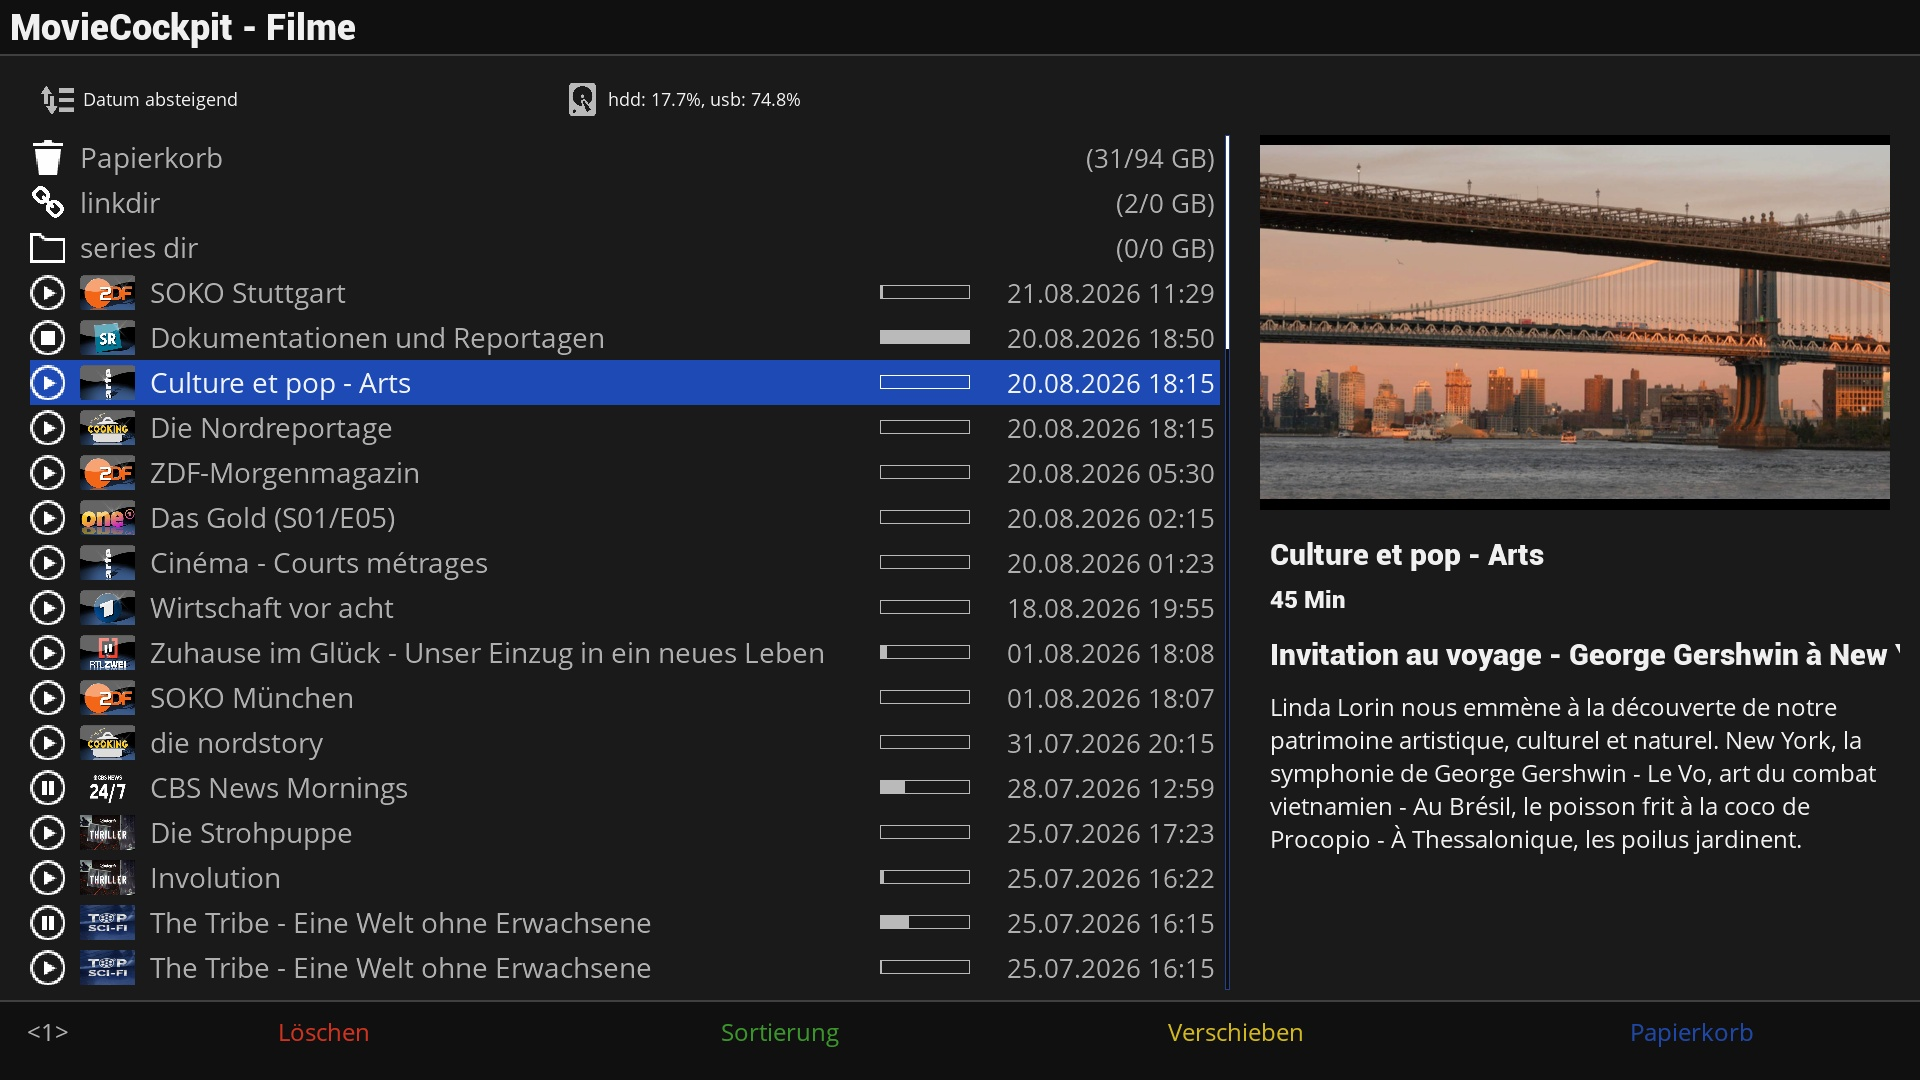
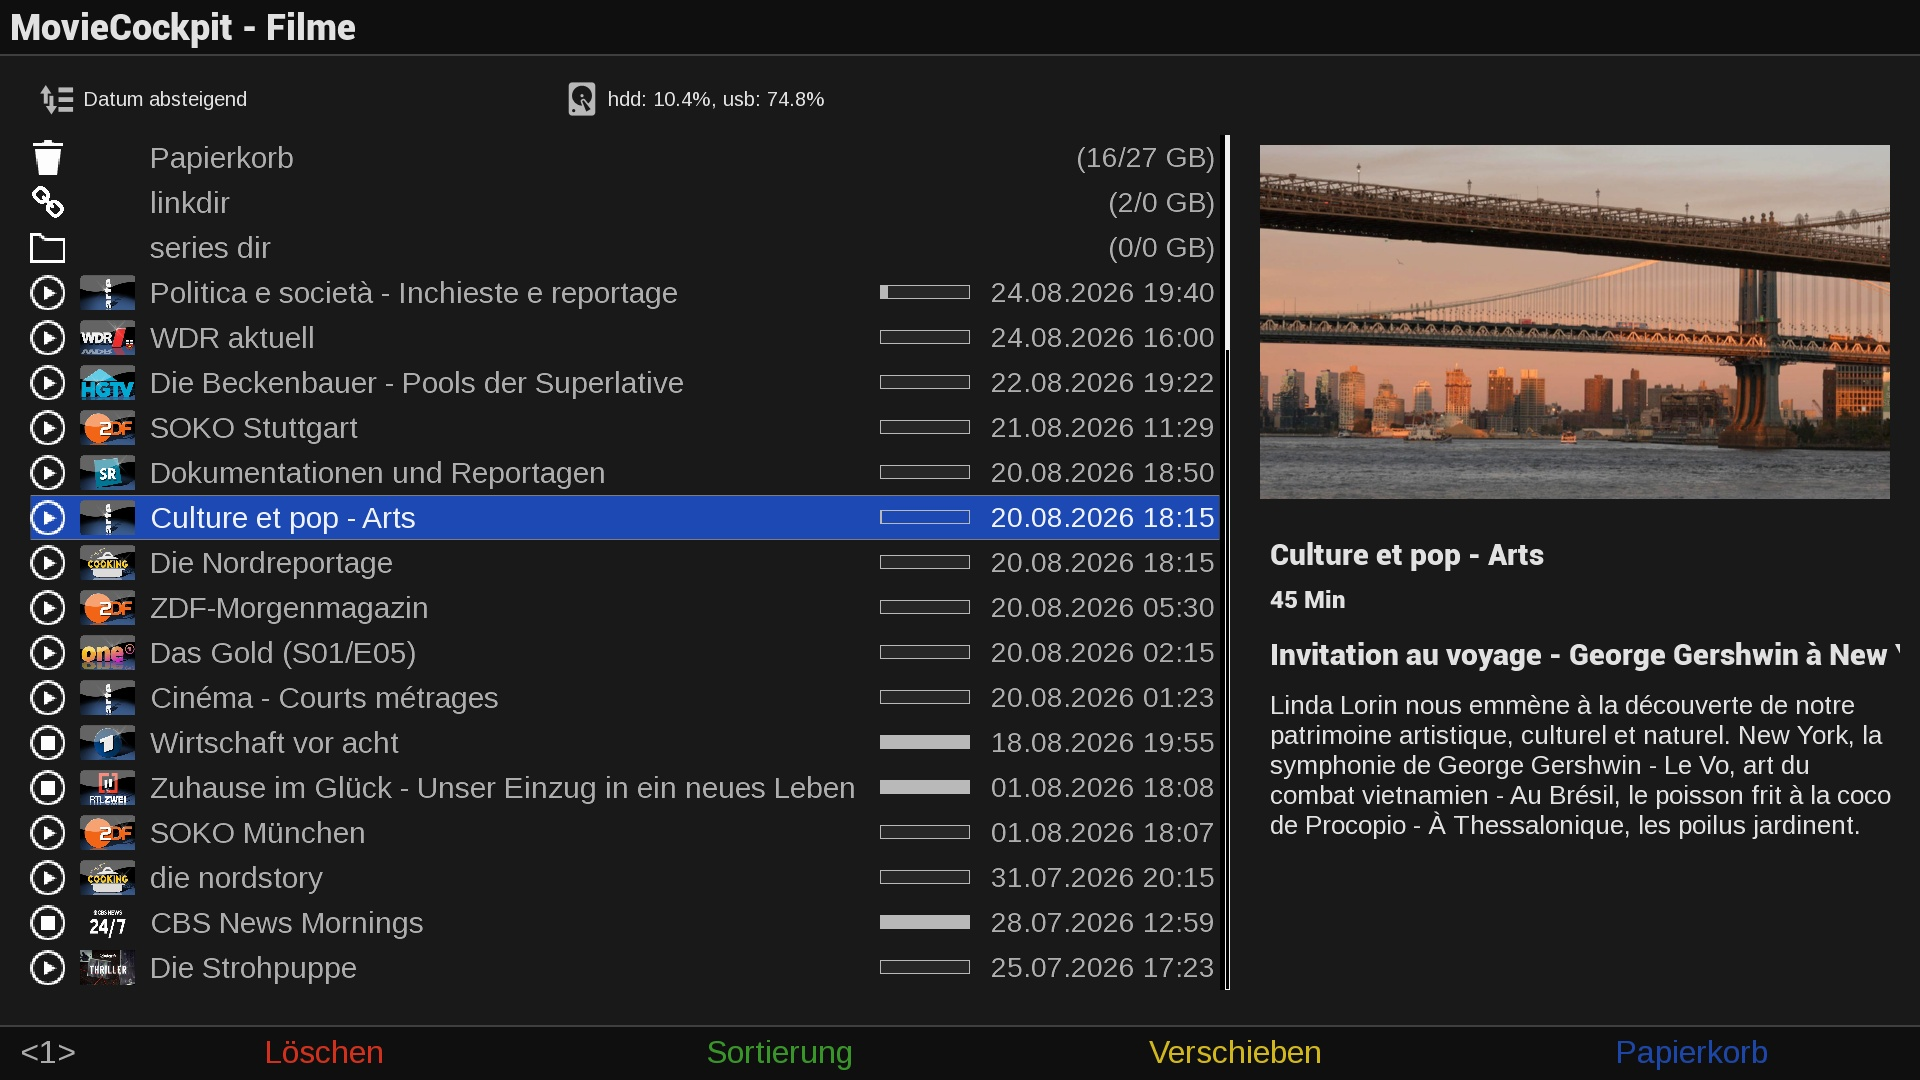
0.8.0

diff --git a/src/MovieList.py b/src/MovieList.py
@@ -7,14 +7,11 @@ import pickle
 from time import time
 from datetime import datetime
 from Components.config import config
-from Components.GUIComponent import GUIComponent
-from Components.MultiContent import MultiContentEntryText, MultiContentEntryPixmapAlphaBlend, MultiContentEntryProgress
+from Components.Sources.List import List
 from Tools.LoadPixmap import LoadPixmap
-from enigma import eListbox, eListboxPythonMultiContent
-from enigma import RT_HALIGN_LEFT, RT_HALIGN_RIGHT, RT_VALIGN_CENTER
 from Plugins.SystemPlugins.MountCockpit.MountCockpit import MountCockpit
 from Plugins.SystemPlugins.CacheCockpit.FileManager import FileManager
-from skin import parseColor, parseFont, parseSize
+from skin import parseColor
 from .Debug import logger
 from .Version import ID
 from .__init__ import _
@@ -31,14 +28,26 @@ from .RecordingUtils import isRecording, isDownloadRecording
 from .JobUtils import getPendingJob
 
 
-class MovieList(GUIComponent, Sorting, ServiceCenter):
+# Extended fields appended after the raw FILE_IDX_* tuple (0-19) for the "list" Source
+# consumed by the skin's TemplatedMultiContentEx convert block. Indices are duplicated
+# as literals in skin/default/skin.xml (a skin <convert> eval has no access to these
+# module constants) - keep both in sync when changing this layout.
+ROW_IDX_NAME = 20
+ROW_IDX_DATE_TEXT = 21
+ROW_IDX_PROGRESS = 22
+ROW_IDX_FILE_ICON = 23
+ROW_IDX_PICON = 24
+ROW_IDX_COLOR = 25
+ROW_IDX_COLOR_SEL = 26
+
+
+class MovieList(List, Sorting, ServiceCenter):
 
     COMPONENT_ID = ""
-    GUI_WIDGET = eListbox
 
     def __init__(self):
         logger.debug("...")
-        GUIComponent.__init__(self)
+        List.__init__(self, list=[], enableWrapAround=True)
         Sorting.__init__(self)
         ServiceCenter.__init__(self, self)
         self.file_list = []
@@ -46,11 +55,6 @@ class MovieList(GUIComponent, Sorting, ServiceCenter):
         self.lock_list = {}
         self.file_list_index = {}
         self.load_dir = ""
-        self.skinAttributes = None
-
-        # Initialize the list
-        self.l = eListboxPythonMultiContent()  # noqa: E741
-        self.l.setBuildFunc(self.buildMovieListEntry)
 
         self.show_dirs = False
         self.insert_dirs = False
@@ -91,16 +95,6 @@ class MovieList(GUIComponent, Sorting, ServiceCenter):
         self.pic_movie_deleted = LoadPixmap(getSkinPath(
             "images/deleted.svg"), cached=True)
 
-        self.onSelectionChanged = []
-
-    def postWidgetCreate(self, instance):
-        instance.setWrapAround(True)
-        instance.setContent(self.l)
-        instance.selectionChanged.get().append(self.selectionChanged)
-
-    def preWidgetRemove(self, instance):
-        instance.setContent(None)
-
     def setListContent(self):
         config.plugins.moviecockpit.list_content.value = self.list_content
         config.plugins.moviecockpit.list_content.save()
@@ -134,35 +128,38 @@ class MovieList(GUIComponent, Sorting, ServiceCenter):
         self.setListContent()
         self.loadList()
 
-    def selectionChanged(self):
-        logger.debug("...")
-        for function in self.onSelectionChanged:
-            function()
-
     # move functions
 
     def moveUp(self, n=1):
         for _i in range(int(n)):
-            self.instance.moveSelection(self.instance.moveUp)
+            self.up()
 
     def moveDown(self, n=1):
         for _i in range(int(n)):
-            self.instance.moveSelection(self.instance.moveDown)
+            self.down()
 
     def pageUp(self):
-        self.instance.moveSelection(self.instance.pageUp)
+        try:
+            instance = self.master.master.instance
+            instance.moveSelection(instance.pageUp)
+        except AttributeError:
+            pass
 
     def pageDown(self):
-        self.instance.moveSelection(self.instance.pageDown)
+        try:
+            instance = self.master.master.instance
+            instance.moveSelection(instance.pageDown)
+        except AttributeError:
+            pass
 
     def moveTop(self):
-        self.instance.moveSelection(self.instance.moveTop)
+        self.top()
 
     def moveEnd(self):
-        self.instance.moveSelection(self.instance.moveEnd)
+        self.bottom()
 
     def moveToIndex(self, index):
-        self.instance.moveSelectionTo(index)
+        self.index = index
 
     def moveToPath(self, path):
         index = self.getFileIndex(path)
@@ -249,14 +246,14 @@ class MovieList(GUIComponent, Sorting, ServiceCenter):
 
     def getCurrentPath(self):
         path = ""
-        current_selection = self.l.getCurrentSelection()
+        current_selection = self.getCurrentSelection()
         if current_selection:
             path = current_selection[FILE_IDX_PATH]
         return path
 
     def getCurrentDir(self):
         directory = ""
-        current_selection = self.l.getCurrentSelection()
+        current_selection = self.getCurrentSelection()
         if current_selection:
             directory = current_selection[FILE_IDX_DIR]
         logger.debug("directory: %s", directory)
@@ -277,18 +274,21 @@ class MovieList(GUIComponent, Sorting, ServiceCenter):
         return index
 
     def getCurrentIndex(self):
-        return self.instance.getCurrentIndex()
+        return self.getIndex()
 
     def getCurrentSelection(self):
-        return self.l.getCurrentSelection()
+        index = self.getIndex()
+        if index is not None and 0 <= index < len(self.file_list):
+            return self.file_list[index]
+        return None
 
     def invalidateList(self):
         self.lock_list = FileManager.getInstance(ID).getLockList()
-        self.l.invalidate()
+        self.updateList([self.buildRow(afile) for afile in self.file_list])
 
     def invalidateEntry(self, i):
         if i > -1:
-            self.l.invalidateEntry(i)
+            self.modifyEntry(i, self.buildRow(self.file_list[i]))
 
     def filterDirList(self, dir_list):
         logger.info("...")
@@ -382,74 +382,14 @@ class MovieList(GUIComponent, Sorting, ServiceCenter):
         sort_mode, sort_order = sort_modes[current_sort_mode][0]
         self.file_list = header_list + \
             self.sortList(file_list, sort_mode, sort_order)
-        self.l.setList(self.file_list)
+        self.list = [self.buildRow(afile) for afile in self.file_list]
         self.file_list_index = self.createListIndex(load_dir, self.file_list)
         self.moveToInitialSelection(selection_path)
         self.load_dir = load_dir
 
-    # skin functions
-
-    def applySkin(self, desktop, parent):
-        attribs = []
-        value_attributes = [
-            "row_height",
-            "start",
-            "spacer",
-            "date_width",
-        ]
-        size_attributes = [
-            "bar_size",
-            "icon_size",
-            "picon_size"
-        ]
-        font_attributes = [
-            "font0",
-            "font1",
-            "font2"
-        ]
-        color_attributes = [
-        ]
-
-        if self.skinAttributes:
-            for (attrib, value) in self.skinAttributes:
-                if attrib in value_attributes:
-                    setattr(self, attrib, int(value))
-                elif attrib in size_attributes:
-                    setattr(self, attrib, parseSize(value, ((1, 1), (1, 1))))
-                elif attrib in font_attributes:
-                    setattr(self, attrib, parseFont(value, ((1, 1), (1, 1))))
-                elif attrib in color_attributes:
-                    setattr(self, attrib, parseColor(value).argb())
-                else:
-                    attribs.append((attrib, value))
-        self.skinAttributes = attribs
-
-        logger.debug("self.skinAttributes: %s", self.skinAttributes)
-        rc = GUIComponent.applySkin(self, desktop, parent)
-
-        # Get widget width from instance
-        self.width = self.instance.size().width()
-
-        # Load progress bar images
-        self.pic_progress_bar = LoadPixmap(getSkinPath(
-            "images/progcl.svg"), cached=True)
-        self.pic_rec_progress_bar = LoadPixmap(getSkinPath(
-            "images/rec_progcl.svg"), cached=True)
-
-        self.l.setItemHeight(self.row_height)
-
-        # Set fonts if specified in template
-        # self.l.setFont(i, gFont("Regular", size))
-        self.l.setFont(0, self.font0)
-        self.l.setFont(1, self.font1)
-        self.l.setFont(2, self.font2)
-
-        return rc
-
     # list build function
 
-    def buildMovieListEntry(self, *args):
-        afile = args  # args is the tuple containing all file info
+    def buildRow(self, afile):
 
         def getDateText(path, file_type, date):
             logger.debug("path: %s, file_type: %s, date: %s",
@@ -565,13 +505,10 @@ class MovieList(GUIComponent, Sorting, ServiceCenter):
         service_reference = afile[FILE_IDX_SERVICE_REFERENCE]
         cuts = afile[FILE_IDX_CUTS]
 
-        self.lock_list = FileManager.getInstance(ID).getLockList()
-
         is_recording = isRecording(path)
         color, color_sel = getColor(path, file_type, is_recording)
         progress = getProgress(is_recording, path, event_start_time,
                                length, cuts) if file_type in [FILE_TYPE_FILE] else -1
-        progress_bar = self.pic_rec_progress_bar if is_recording else self.pic_progress_bar
 
         # Get picon with error handling
         picon = None
@@ -585,44 +522,8 @@ class MovieList(GUIComponent, Sorting, ServiceCenter):
         date_text = getDateText(path, file_type, event_start_time)
         file_icon = getFileIcon(path, file_type, progress, is_recording)
 
-        res = [afile]
-
-        # Calculate positions for compact single line: icon | picon | name | progress bar | date
-        x_pos = self.start
-
-        # Single line: icon | picon | name | progress bar | date
-
-        # file icon
-        if file_icon:
-            res.append(MultiContentEntryPixmapAlphaBlend(
-                pos=(x_pos, (self.row_height - self.icon_size.height()) // 2),
-                size=(self.icon_size.width(), self.icon_size.height()), png=file_icon, flags=4))  # BT_SCALE = 4
-            x_pos += self.icon_size.width() + self.spacer
-
-        # picon
-        if picon and file_type == FILE_TYPE_FILE:
-            res.append(MultiContentEntryPixmapAlphaBlend(
-                pos=(x_pos, (self.row_height - self.picon_size.height()) // 2),
-                size=(self.picon_size.width(), self.picon_size.height()),
-                png=picon, flags=4))  # BT_SCALE = 4
-            x_pos += self.picon_size.width() + self.spacer
-
-        # name
-        res.append(MultiContentEntryText(
-            pos=(x_pos, 0),
-            size=(self.width - x_pos - self.bar_size.width() - self.date_width - self.spacer * 3, self.row_height),
-            font=1, flags=RT_HALIGN_LEFT | RT_VALIGN_CENTER, text=name, color=color, color_sel=color_sel))
-
-        # progress bar - always show for movie files
-        if file_type == FILE_TYPE_FILE and progress_bar:
-            res.append(MultiContentEntryProgress(
-                pos=(self.width - self.bar_size.width() - self.date_width - 2 * self.spacer, (self.row_height - self.bar_size.height()) // 2),
-                size=(self.bar_size.width(), self.bar_size.height()), percent=max(0, progress), borderWidth=1, foreColor=color))
-
-        # date
-        res.append(MultiContentEntryText(
-            pos=(self.width - self.date_width - self.spacer, 0),
-            size=(self.date_width, self.row_height),
-            font=2, flags=RT_HALIGN_RIGHT | RT_VALIGN_CENTER, text=date_text, color=color, color_sel=color_sel))
-
-        return res
+        # progress stays -1 for non-file rows (dirs/links): the C++ listbox
+        # skips painting a MultiContentEntryProgress entirely when the
+        # resolved percent is negative, which is exactly how the bar is
+        # meant to disappear for anything that isn't a movie file.
+        return afile + (name, date_text, progress, file_icon, picon, color, color_sel)

diff --git a/src/CockpitPlayer.py b/src/CockpitPlayer.py
@@ -93,7 +93,7 @@ class CockpitPlayer(
 
         self.service_started = False
         self.cut_list = []
-        self.resume_point = 0
+        self.mtc_resume_point = 0
 
         self.onShown.append(self.__onShown)
 
@@ -121,10 +121,10 @@ class CockpitPlayer(
         if hasattr(self, "config_plugins_plugin"):
             self.downloadCuesheet()
             if self.config_plugins_plugin.movie_resume_at_last_pos.value:
-                self.resume_point = getCutListLast(self.cut_list)
-                if self.resume_point > 0:
-                    seconds = ptsToSeconds(self.resume_point)
-                    logger.debug("resume_point: %s", seconds)
+                self.mtc_resume_point = getCutListLast(self.cut_list)
+                if self.mtc_resume_point > 0:
+                    seconds = ptsToSeconds(self.mtc_resume_point)
+                    logger.debug("mtc_resume_point: %s", seconds)
                     Notifications.AddNotificationWithCallback(
                         self.__serviceStartedCallback,
                         MessageBox,
@@ -141,9 +141,9 @@ class CockpitPlayer(
 
     def __serviceStartedCallback(self, answer):
         logger.info("answer: %s", answer)
-        if answer and self.resume_point:
-            logger.debug("Seeking to resume_point: %s", self.resume_point)
-            self.doSeek(int(self.resume_point))
+        if answer and self.mtc_resume_point:
+            logger.debug("Seeking to mtc_resume_point: %s", self.mtc_resume_point)
+            self.doSeek(int(self.mtc_resume_point))
         elif self.config_plugins_plugin.movie_start_position.value == "first_mark":
             first_mark = getCutListFirst(self.cut_list, config.recording.margin_before.value * 60)
             if first_mark:

diff --git a/src/CockpitSeek.py b/src/CockpitSeek.py
@@ -24,6 +24,24 @@ class CockpitSeek(CockpitSmartSeek, CockpitEvent):
         is_recording = isRecording(self.path) or self.timeshift
         return is_recording
 
+    def getSeek(self):
+        # CockpitPlayer doesn't inherit InfoBarSeek (it has its own action map
+        # and event tracking via CockpitPVRState/CockpitCueSheet), so getSeek()/
+        # doSeek() are reimplemented here rather than pulling in the whole
+        # InfoBarSeek mixin just for these two stateless helpers.
+        service = self.session.nav.getCurrentService()
+        if service is None:
+            return None
+        seek = service.seek()
+        if seek is None or not seek.isCurrentlySeekable():
+            return None
+        return seek
+
+    def doSeek(self, pts):
+        seek = self.getSeek()
+        if seek is not None:
+            seek.seekTo(pts)
+
     def getLength(self):
         length = 0
         if self.service_started:

diff --git a/src/Version.py b/src/Version.py
@@ -4,6 +4,6 @@
 
 PLUGIN = "MovieCockpit"
 ID = "MVC"
-VERSION = "0.7.3"
+VERSION = "0.8.0"
 COPYRIGHT = "2018-2026 by xcentaurix"
 LICENSE = "This program is free software: you can redistribute it and/or modify it under the terms of the GNU General Public License as published by the Free Software Foundation, either version 3 of the License, or (at your option) any later version."

diff --git a/src/MovieCockpit.py b/src/MovieCockpit.py
@@ -386,6 +386,7 @@ class MovieCockpit(Screen, HelpableScreen, CockpitContextMenu, Actions, CutList)
         if adir not in MountCockpit.getInstance().getMountedBookmarks(ID):
             touchFile(adir)
             FileManager.getInstance(ID).loadDatabaseFile(adir)
+        self.movie_list.loadList()
 
     def openContextMenu(self):
         self.menu(
